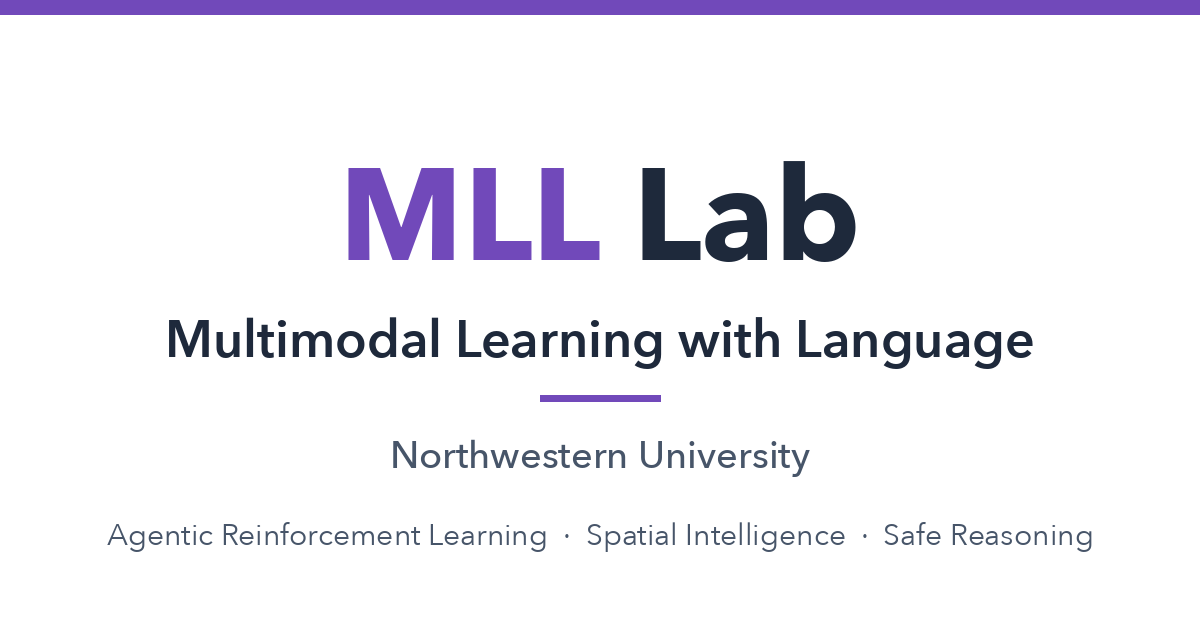
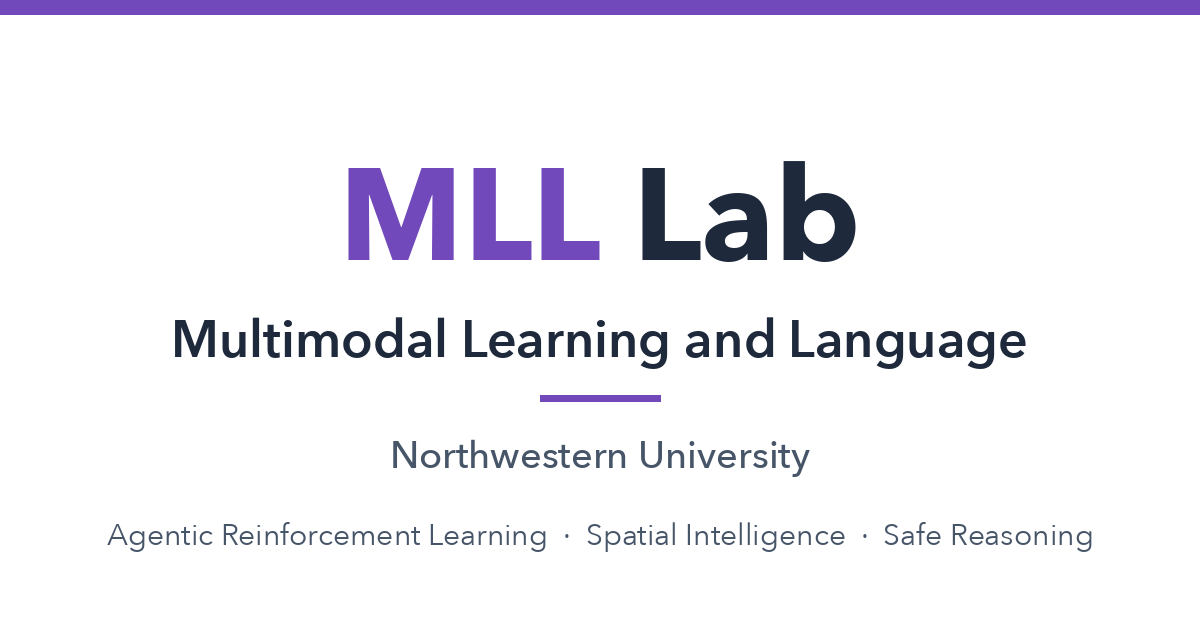
update

Changed region(s): [[0.1233, 0.4825, 0.8633, 0.6032]]

diff --git a/README.md b/README.md
@@ -1,6 +1,6 @@
 # MLL Lab Website
 
-Source for the website of the MLL Lab (Multimodal Learning with Language) at Northwestern University, led by [Manling Li](https://limanling.github.io/). The lab works on agentic reinforcement learning, spatial intelligence, embodied AI agents, and safe reasoning.
+Source for the website of the MLL Lab (Multimodal Learning and Language) at Northwestern University, led by [Manling Li](https://limanling.github.io/). The lab works on agentic reinforcement learning, spatial intelligence, embodied AI agents, and safe reasoning.
 
 Live site: [www.mll.lab.northwestern.edu](https://www.mll.lab.northwestern.edu/) (deployed to GitHub Pages by `.github/workflows/deploy.yaml` on every push to `main`).
 
